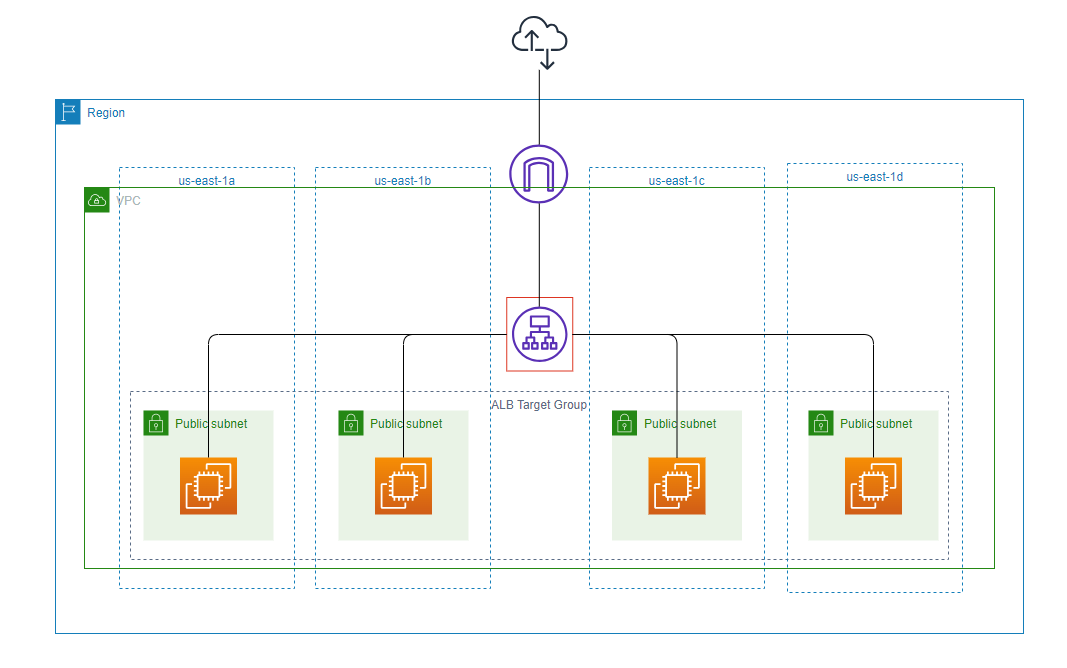
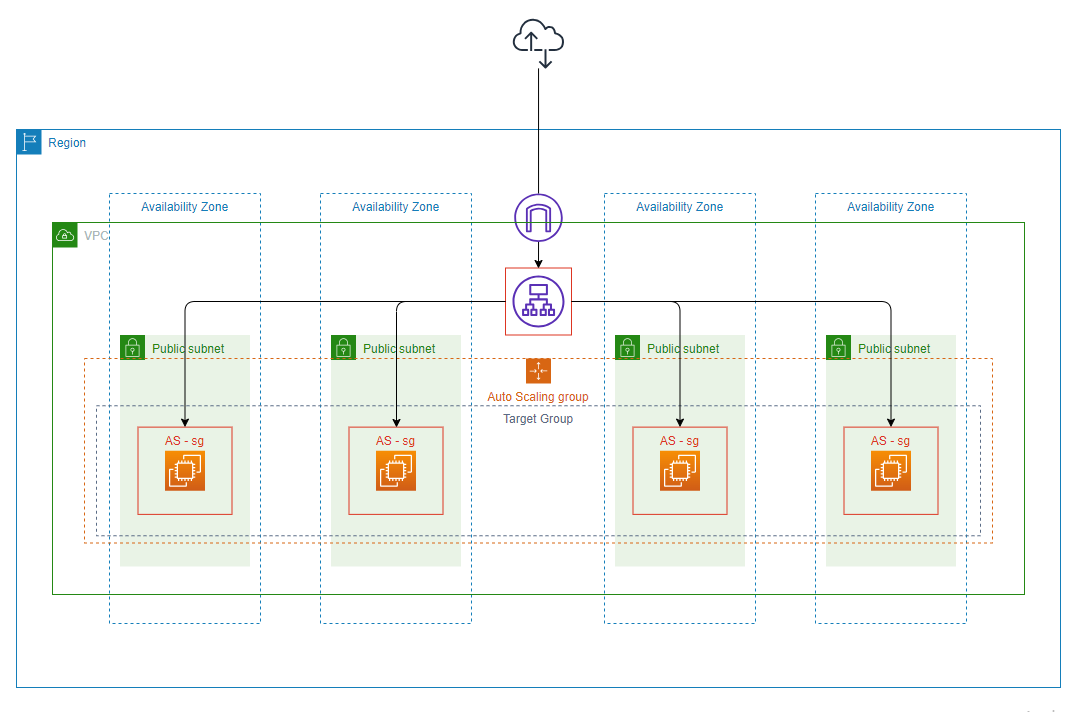
Commit

diff --git a/README.md b/README.md
@@ -1,49 +1,63 @@
-# Web Tier using AWS EC2 Linux (Multi-AZ with ALB)
+# Web Tier using AWS EC2 Linux - Multi-AZ with ALB with auto-scaling
 
-Deploying Linux Server EC2 Instances in AWS using Terraform with ALB and Multi AZ
+Deploying Linux Server EC2 Instances in AWS using Terraform with ALB and Multi AZ with auto scaling
 
 ![Alt text](/images/diagram.png)
 
+At first we created an AMI using EC2-Auto-Scaling-Lab.yaml with help of cloud formation:
+
+![Alt text](/images/cf1.png)
+
+![Alt text](/images/cf2.png)
+
+![Alt text](/images/cf3.png)
+
+AMI Created from above running instance:
+
+![Alt text](/images/ami.png)
+
+
+Following modules are involved:
 1. vpc module - to create vpc, public subnets, internet gateway, security groups and route tables
-2. web module - to create Linux Web EC2 instances with userdata script to display instance metadata using latest Amazon Linux ami in multiple subnets created in vpc module
-3. alb module - to create an application load balancer with target group containing ec2 instances from web module
-4. main module - Above modules get called in main config.
+2. web module - to create launch template, auto scaling group, and scaling policy
+3. main module - Above modules get called in main config.
 
 Terraform Plan Output:
 ```
-Plan: 25 to add, 0 to change, 0 to destroy.
+Plan: 21 to add, 0 to change, 0 to destroy.
 ```
 
 Terraform Apply Output:
 ```
-Apply complete! Resources: 25 added, 0 changed, 0 destroyed.
+Apply complete! Resources: 21 added, 0 changed, 0 destroyed.
 
 Outputs:
 
-alb_dns_name = "tf-lb-20231130193349621000000004-1500099737.us-east-1.elb.amazonaws.com"
-ec2_instance_ids = [
-  "i-05eb93181588e2b83",
-  "i-09431707f204e99ad",
-  "i-067704933b1bc4b3b",
-  "i-07bc08112198ff133",
-]
+alb_dns_name = "tf-lb-20240115192631610100000006-1207062642.us-east-1.elb.amazonaws.com"
 public_subnets = [
-  "subnet-0572381b597ce0e3e",
-  "subnet-07362455ed02e7430",
-  "subnet-012ba7859b4b4544f",
-  "subnet-0dd38dcbf0c266cae",
+  "subnet-0cb5abe2c789f67fd",
+  "subnet-090cdd4f928ef6e99",
+  "subnet-00ea14a4592171b09",
+  "subnet-01a43183a9f0e4f77",
 ]
 security_group_alb = [
-  "sg-078f66822ee38a307",
+  "sg-050b6f98063fe0c31",
 ]
 security_groups_ec2 = [
-  "sg-0e6c84120d02ed1ed",
+  "sg-0ba4cd2f63be00161",
 ]
 ```
-
-Running Website:
+Single running instance, auto scaling policy started only 1 instance (desired capacity):
 
 ![Alt text](/images/vm1.png)
+
+![Alt text](/images/vmlist1.png)
+
+After stressing single running EC2, scaling out initiated to start 4 (max capacity) instances:
+
+![Alt text](/images/stress.png)
+
+![Alt text](/images/scaledec2.png)
 
 ![Alt text](/images/vm2.png)
 
@@ -51,18 +65,26 @@ Running Website:
 
 ![Alt text](/images/vm4.png)
 
-VPC:
-![Alt text](/images/vpc.png)
+ASG Scale out Activity log:
+![Alt text](/images/scaleoutlog.png)
 
-EC2:
-![Alt text](/images/ec2.png)
+After rebooting high CPU usage instance, auto scaling in is triggered, to stop 3 instances and keep only 1 running (desired capacity):
 
-ALB:
-![Alt text](/images/alb.png)
+![Alt text](/images/stresszero.png)
+
+![Alt text](/images/scaleinec2.png)
+
+Only running instance:
+
+![Alt text](/images/vmscalein.png)
+
+ASG Scale in Activity log:
+
+![Alt text](/images/scaleinlog.png)
 
 Terraform Destroy Output:
 ```
-Plan: 0 to add, 0 to change, 25 to destroy.
+Plan: 0 to add, 0 to change, 21 to destroy.
 
-Destroy complete! Resources: 25 destroyed.
+Destroy complete! Resources: 21 destroyed.
 ```
